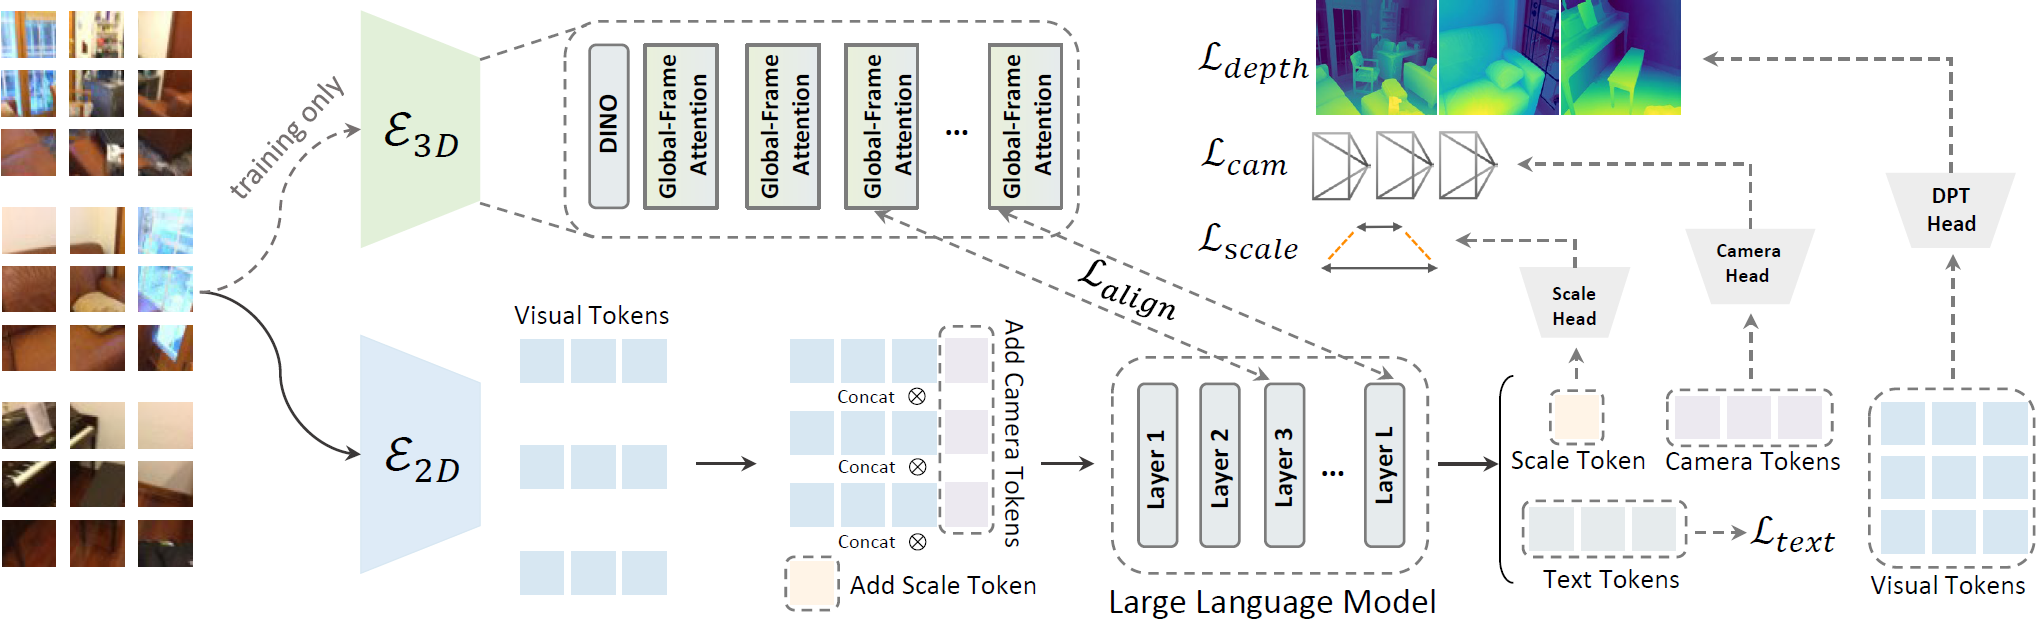
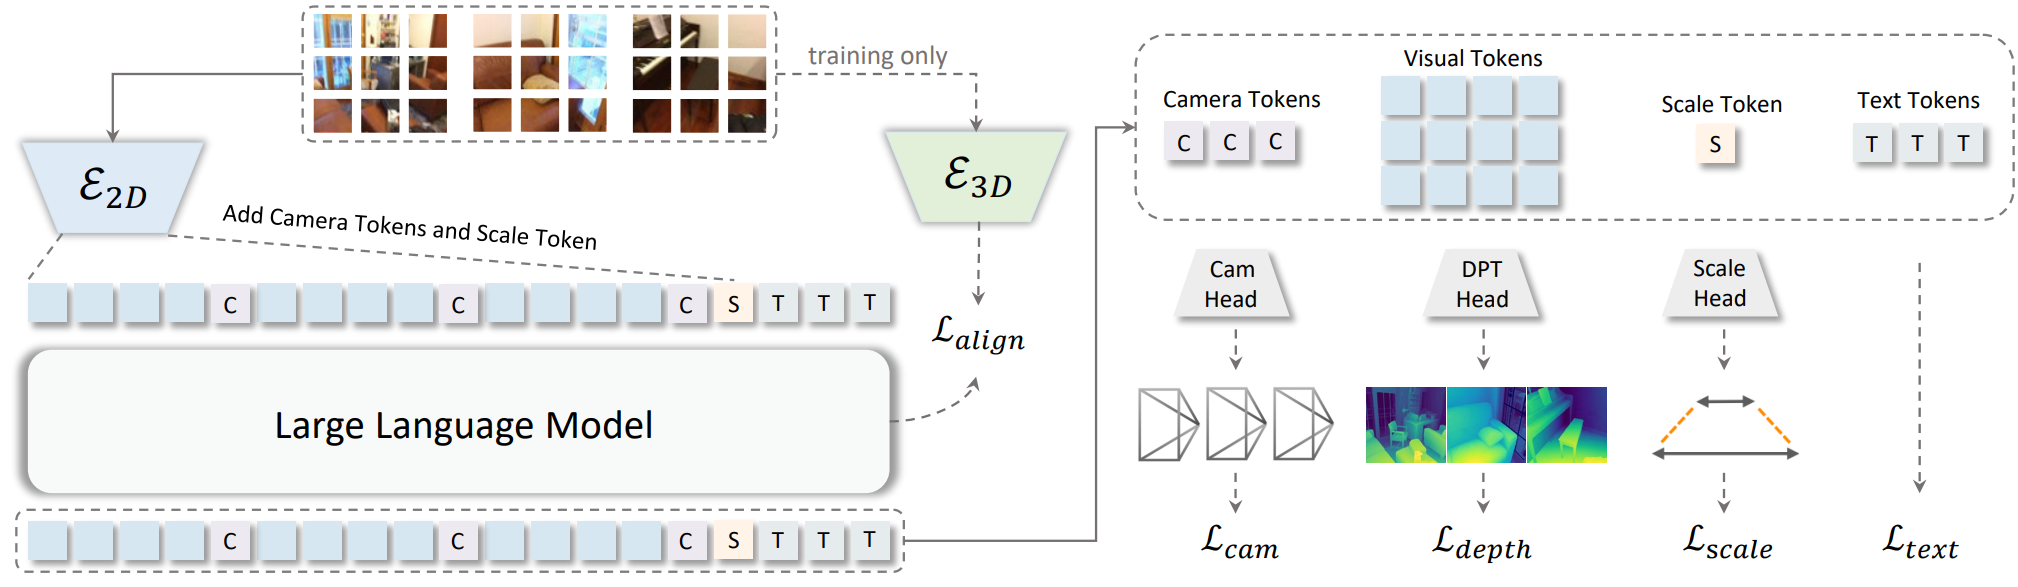
update

diff --git a/README.md b/README.md
@@ -1,6 +1,5 @@
 <h2 align="center"> Learning Geometric Representations from Videos for Spatial Intelligent Multimodal Large Language Models </h2>
 
-🌟 This is the official repository of the GeoVR, a paradigm to restructure MLLM’s intrinsic representations with geometric awareness using purely 2D videos for Spatial Intelligence.
 
 <h5 align="center">
 
@@ -9,19 +8,30 @@
 
 </h5>
 
+
+<div style="font-family: charter;" align="center">
+    <a href="https://whb139426.github.io/" target="_blank">Haibo Wang</a><sup>1</sup>,
+    <a href="https://wilburone.github.io/" target="_blank">Lifu Huang</a><sup>1</sup>,
+</div>
+
+<div style="font-family: charter;" align="center">
+    <sup>1</sup>University of California, Davis&nbsp;&nbsp;
+</div>
+
 <div align="center">
   <img src="assets/method.png"/>
 </div><br/>
 
-💡 We sharpen our model by incorporating:
+🌟 This is the official repository of the GeoVR, a paradigm to restructure MLLM’s intrinsic representations with geometric awareness using purely 2D videos for Spatial Intelligence. We sharpen our model by incorporating:
 - **Multi-Objective Geometric Learning:** Jointly optimizing camera poses, depth maps and metric scales to capture dynamic multi-view consistency and static physical scales.
 - **Hierarchical Feature Distillation:** Aligning multi-scale representations from 3D foundation models (e.g., VGGT) to seamlessly bridge low-level geometry and high-level semantics.
 
 ## 📝 TODO List
 
 - [x] Release training/evaluation scripts and GeoVR-2B weights
-- [ ] Release GeoVR-4B/8B weights
-- [ ] Release GeoVR-2B/4B/8B trained on datasets mixed with general video understanding tasks
+- [ ] Release GeoVR-4B weights
+- [ ] Release GeoVR-8B weights
+- [ ] Release models trained on datasets mixed with general video understanding tasks
 
 ## 🛠️ Install
 1. Clone this repository and navigate to folder